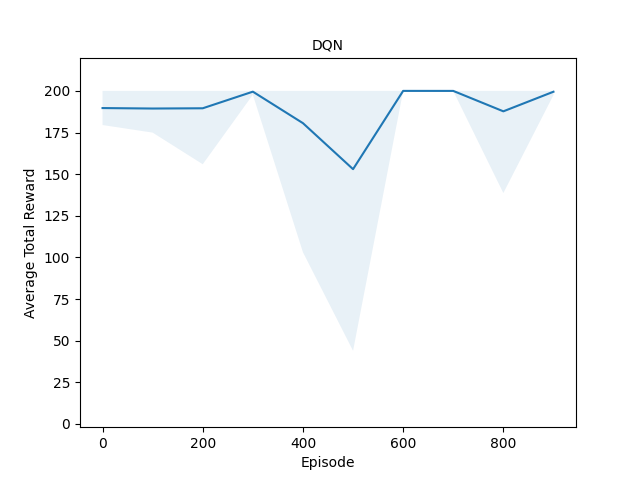
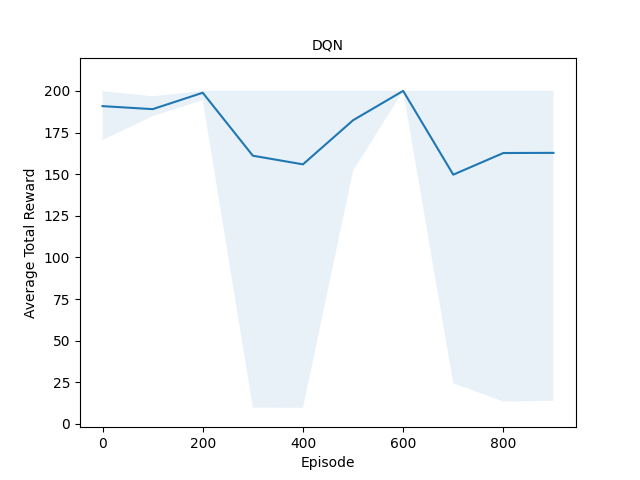
modified trn to have stochastic action

diff --git a/dqn.py b/dqn.py
@@ -121,6 +121,10 @@ class DeepQNetwork(nn.Module):
             random_val = random.random()
             if random_val < self.epsilon:
                 return random.randint(0, self.action_size - 1)
+            else:
+                with torch.no_grad():
+                    return torch.argmax(self.q_net(state)).item()
+
         else:
             with torch.no_grad():
                 return torch.argmax(self.q_net(state)).item()
@@ -175,7 +179,9 @@ class DeepQNetwork(nn.Module):
 
             # iterate for at most max steps in each episode
             for _ in range(max_steps):
-                action = self.get_action(state, stochastic=False)
+
+                action = self.get_action(state, stochastic=train)
+                
                 next_state, reward, terminated, truncated, _ = env.step(action)
                 done = terminated or truncated
                 total_episode_reward += reward
